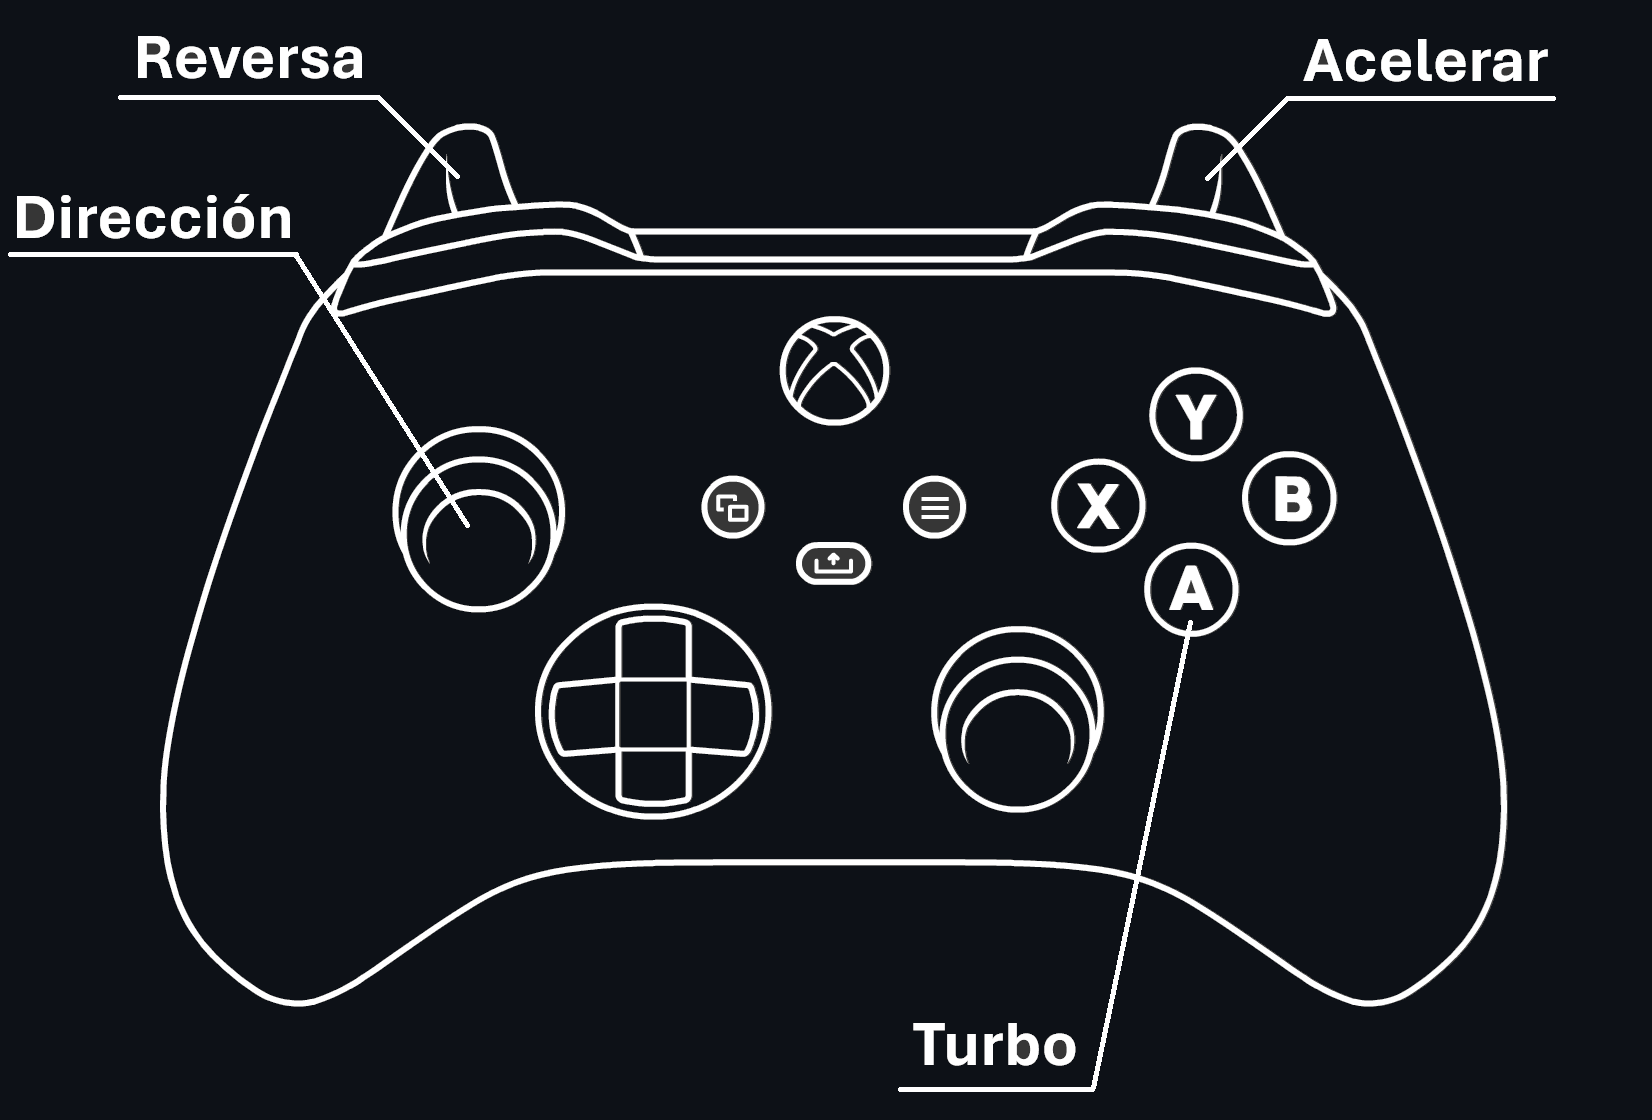
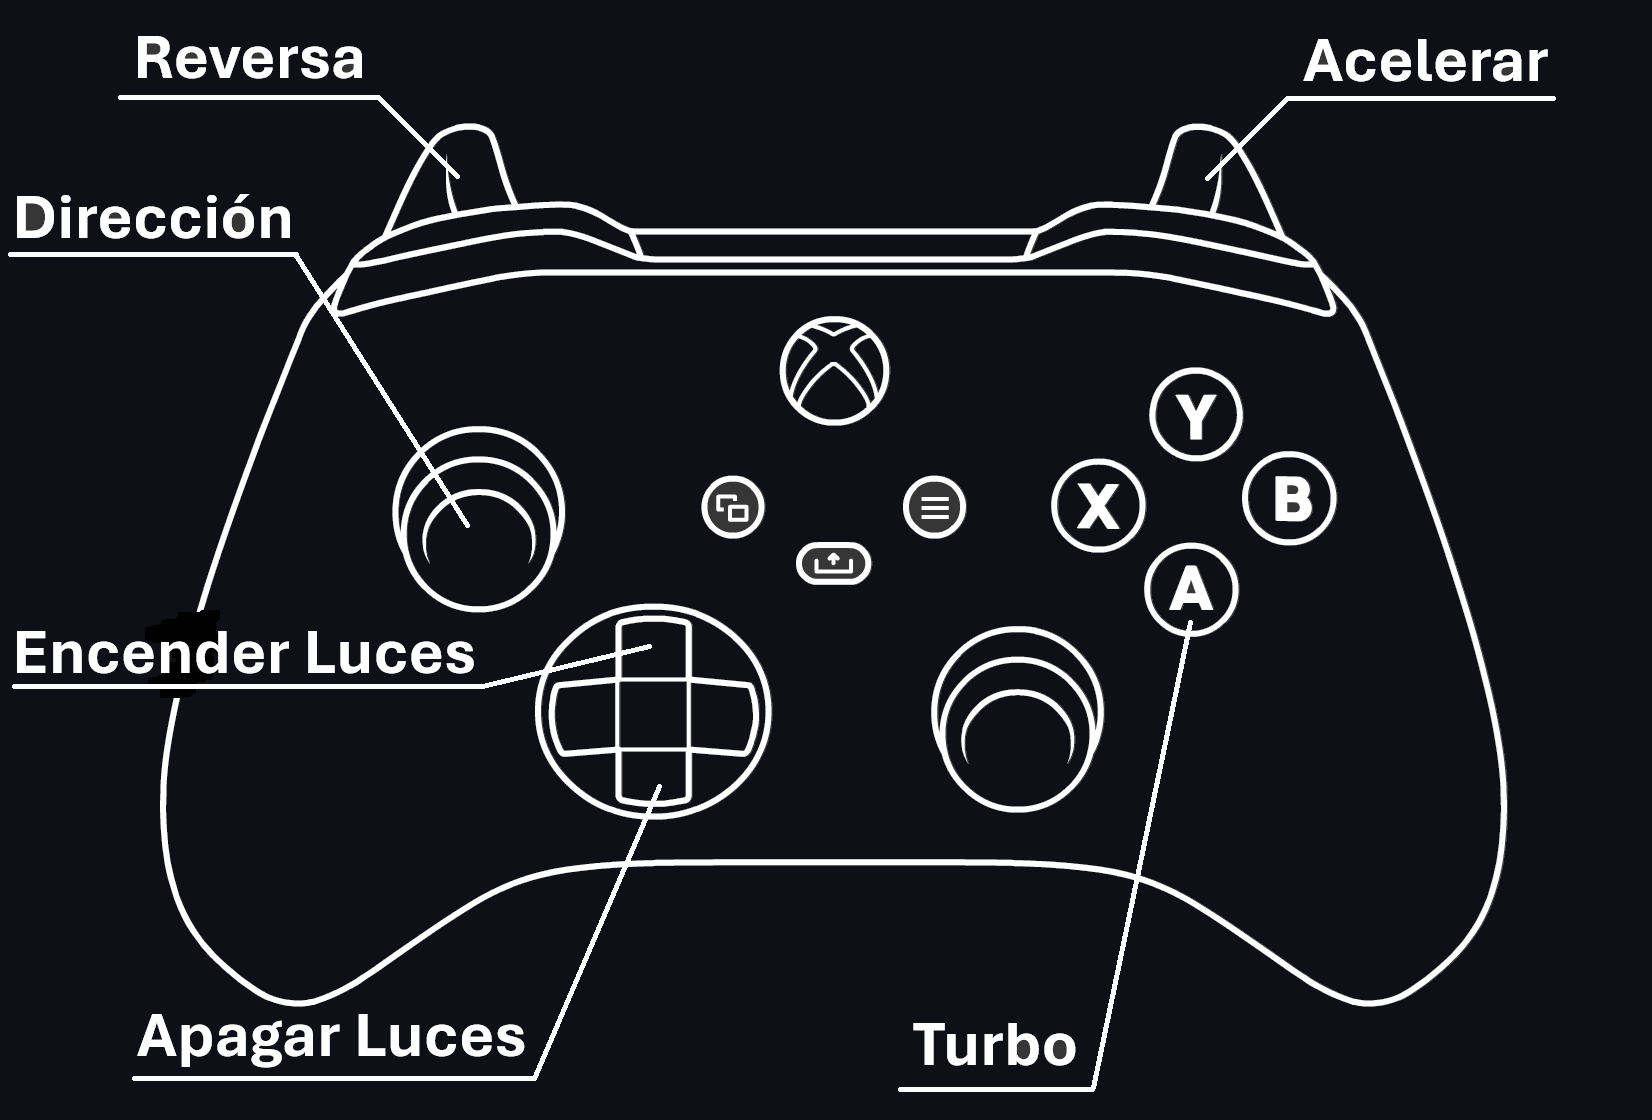
V1.1

diff --git a/shellMotorsport.py b/shellMotorsport.py
@@ -1,14 +1,13 @@
 import asyncio
-from bleak import BleakScanner, BleakClient
-from threading import Thread
-from configparser import ConfigParser
-from time import sleep
+from bleak          import BleakScanner, BleakClient
+from threading      import Thread
+from configparser   import ConfigParser
+from Crypto.Cipher  import AES
+from time           import sleep
 
 # Leemos el archivo de configuración
 config = ConfigParser()
 config.read('config.ini')
-
-UUID_CARACTERISTICA = "d44bc439-abfd-45a2-b575-925416129600"    # UUID de la caracteristica donde se envian los valores, igual para todos los autos
 
 ### Configuraciones ###
 CONEXION_ESPECIFICA = int(config['CONEXION']['conexion_especifica'])
@@ -17,23 +16,9 @@ INTENTOS_RECONEXION = int(config['CONEXION']['intentos_reconexion'])
 DEADZONE_GATILLO    = int(config['MOVIMIENTO']['deadzone_gatillo'])
 DEADZONE_ANALOGICO  = int(config['MOVIMIENTO']['deadzone_analogico'])
 
-# Códigos para el auto
-NEUTRAL         = config['CODIGOS']['NEUTRAL']
-ADELANTE        = config['CODIGOS']['adelante']
-ADELANTE_IZQ    = config['CODIGOS']['adelante_izq']
-ADELANTE_DER    = config['CODIGOS']['adelante_der']
-ATRAS           = config['CODIGOS']['atras']
-ATRAS_IZQ       = config['CODIGOS']['atras_izq']
-ATRAS_DER       = config['CODIGOS']['atras_der']
-IZQUIERDA       = config['CODIGOS']['izquierda']
-DERECHA         = config['CODIGOS']['derecha']
-
-TURBO_ADELANTE        = config['CODIGOS']['turbo_adelante']
-TURBO_ADELANTE_IZQ    = config['CODIGOS']['turbo_adelante_izq']
-TURBO_ADELANTE_DER    = config['CODIGOS']['turbo_adelante_der']
-TURBO_ATRAS           = config['CODIGOS']['turbo_atras']
-TURBO_ATRAS_IZQ       = config['CODIGOS']['turbo_atras_izq']
-TURBO_ATRAS_DER       = config['CODIGOS']['turbo_atras_der']
+# Parámetros necesarios para la transmisión
+KEY_AES             = config['PAQUETES']['key']
+UUID_CARACTERISTICA = config['PAQUETES']['uuid']
 
 salir = False
 
@@ -51,75 +36,75 @@ def elegirControlPredeterminado():
         gamepad = gamepads[0]   # Elegimos el primer control de la lista
     return gamepad
 
+lucesEncendidas = False
 
 # Recibe la variable controlValores y determina que paquete se envia
 def elegirPaquete(controlValores):
-    # Leemos el control y determinamos que valor escribir
+    global lucesEncendidas
+
+    # Creamos un paquete de 16 bytes con todos los bytes en cero
+    paquete = bytearray(16)
+
+    # Añadimos los bytes de control
+    paquete[1] = 0x43   # C
+    paquete[2] = 0x54   # T
+    paquete[3] = 0x4C   # L
 
     if(controlValores['BTN_SOUTH'] == 1):
-        turbo = True
+        paquete[9] = 0x64 # Velocidad Turbo
     else:
-        turbo = False
+        paquete[9] = 0x50 # Velocidad Normal
+
+    if(controlValores['ABS_HAT0Y'] == -1):
+        lucesEncendidas = True
+        #paquete[8] = 0x01 # Luces No Encendidas
+    elif(controlValores['ABS_HAT0Y'] == 1):
+        lucesEncendidas = False
+
+    if lucesEncendidas:
+        paquete[8] = 0x00   # Luces Encendidas
+    else:
+        paquete[8] = 0x01   # Luces No Encendidas
 
     # Gatillo Derecho - Avanzando
     if(controlValores['ABS_RZ'] > DEADZONE_GATILLO):
-        # Doblando Derecha
-        if(controlValores['ABS_X'] > DEADZONE_ANALOGICO):
-            if turbo:
-                return bytearray.fromhex(TURBO_ADELANTE_DER)
-            else:
-                return bytearray.fromhex(ADELANTE_DER)
-        
-        # Doblando Izquierda
-        elif(controlValores['ABS_X'] < -DEADZONE_ANALOGICO):
-            if turbo:
-                return bytearray.fromhex(TURBO_ADELANTE_IZQ)
-            else:
-                return bytearray.fromhex(ADELANTE_IZQ)
-        
-        # Sin Doblar
-        else:
-            if turbo:
-                return bytearray.fromhex(TURBO_ADELANTE)
-            else:
-                return bytearray.fromhex(ADELANTE)
+        paquete[4] = 0x01
     
     # Gatillo Izquierdo - Retrocediendo
     elif(controlValores['ABS_Z'] > DEADZONE_GATILLO):
-        # Doblando Derecha
-        if(controlValores['ABS_X'] > DEADZONE_ANALOGICO):
-            if turbo:
-                return bytearray.fromhex(TURBO_ATRAS_DER)
-            else:
-                return bytearray.fromhex(ATRAS_DER)
-        
-        # Doblando Izquierda
-        elif(controlValores['ABS_X'] < -DEADZONE_ANALOGICO):
-            if turbo:
-                return bytearray.fromhex(TURBO_ATRAS_IZQ)
-            else:
-                return bytearray.fromhex(ATRAS_IZQ)
-        
-        # Sin Doblar
-        else:
-            if turbo:
-                return bytearray.fromhex(TURBO_ATRAS)
-            else:
-                return bytearray.fromhex(ATRAS)
-            
-    # Ningún Gatillo Presionado - Sin Moverse
-    else:
-        # Doblando Derecha
-        if(controlValores['ABS_X'] > DEADZONE_ANALOGICO):
-            return bytearray.fromhex(DERECHA)
-        
-        # Doblando Izquierda
-        elif(controlValores['ABS_X'] < -DEADZONE_ANALOGICO):
-            return bytearray.fromhex(IZQUIERDA)
-        
-        # Sin Doblar
-        else:
-            return bytearray.fromhex(NEUTRAL)
+        paquete[5] = 0x01
+    
+    # Doblando Izquierda
+    if(controlValores['ABS_X'] < -DEADZONE_ANALOGICO):
+        paquete[6] = 0x01
+    
+    # Doblando Derecha
+    elif(controlValores['ABS_X'] > DEADZONE_ANALOGICO):
+        paquete[7] = 0x01
+    
+    return paquete
+
+# Encripta los paquetes con AES de 128 bits en modo ECB
+def encriptarPaquete(paquete, key):
+    key = bytes.fromhex(key)
+
+    cipher = AES.new(key, AES.MODE_ECB)
+    
+    codigoEncriptado = bytearray()
+
+    for byte in cipher.encrypt(paquete):
+        codigoEncriptado.append(byte)
+
+    return codigoEncriptado
+
+# Recibe un paquete y verifica si es un paquete que necesita ser reenviado constantemente para generar efecto
+def necesitaReenvio(paquete):
+    # Caso especial primer paquete
+    if paquete == None:
+        return True
+    
+    # Verificamos si estamos indicando avanzar o girar
+    return (paquete[4] == 0x01) or (paquete[5] == 0x01) or (paquete[6] == 0x01) or (paquete[7] == 0x01)
 
 # Actualiza la variable controlValores con los datos del control
 def actualizarControl(control):
@@ -135,11 +120,12 @@ def actualizarControl(control):
         if(controlValores['BTN_SELECT'] == 1 and controlValores['BTN_START'] == 1):
             salir = True
 
-
+# Lee la variable actualizada por el otro hilo y envia los comandos al auto
 async def conexionAuto(hiloControl):
     global salir
 
     print("Buscando dispositivo...")
+
     intentos = 0
     conexionActiva = False
 
@@ -181,19 +167,27 @@ async def conexionAuto(hiloControl):
                 ultimoPaquete = None
                 while conexionActiva and not salir:
                     # Leemos el control y decidimos que paquete se envia
-                    valorEnviar = elegirPaquete(controlValores)
-                    if ultimoPaquete != NEUTRAL:
+                    paqueteDesencriptado = elegirPaquete(controlValores)
+
+                    # Encriptamos el paquete
+                    paqueteEncriptado = encriptarPaquete(paqueteDesencriptado, KEY_AES)
+                    
+                    # Solo enviamos el paquete si va a generar un cambio en el auto
+                    if (not necesitaReenvio(ultimoPaquete)) and (paqueteDesencriptado == ultimoPaquete):
+                        pass
+                    else:
                         try:
                             # Escribimos el valor en el auto
-                            await client.write_gatt_char(UUID_CARACTERISTICA, valorEnviar)
+                            await client.write_gatt_char(UUID_CARACTERISTICA, paqueteEncriptado)
 
                             # Borramos la linea actual
                             print('\033[0K', end="")
-                            print(f"Escrito {valorEnviar}", end="\r")
-                            ultimoPaquete = valorEnviar
+                            print(f"Escrito {paqueteDesencriptado}", end="\r")
+                            ultimoPaquete = paqueteDesencriptado
                         except:
                             print("\nError en el envio del paquete, intentando reconectar")
                             conexionActiva = False
+                        
         except:
             print("Error en la reconexión, intentando " + str(INTENTOS_RECONEXION - intentos) + " veces más")
             intentos += 1

diff --git a/README.md b/README.md
@@ -17,9 +17,14 @@ Aplicación escrita en Python para controlar los autos de la colección “Shell
 ## Controles
 ![controles](./img/controles.png)
 **Nota:** El botón de turbo debe mantenerse apretado para que esté activo, no funciona como el de la aplicación original.
+**Nota 2:** Para salir de la aplicación se puede presionar **START + SELECT**.
 
 ## Configuraciones
 #### Conexión a un auto específico
 Se puede especificar al programa que se conecte a un auto específico, por si se quieren conectar dos autos al mismo tiempo y se quiere garantizar siempre controlar al mismo. Los pasos son:
 - Obtener el nombre Bluetooth del auto. Este se puede obtener con cualquier celular o PC con Bluetooth, se enciende el auto y se escanea como con cualquier dispositivo, el nombre tiene el formato: **“QCAR-XXXXXX”**, donde las X son números y letras aleatorios.
 - Con el nombre, se abre el archivo [config.ini](./config.ini) y se cambia el valor de la configuración **"conexion_especifica"** por un **1** y luego se reemplaza la configuración de **"nombre"** por nuestro nombre obtenido, luego guardar el archivo. Con esto ya queda configurado en el programa, cada vez que se abra el programa buscará siempre el mismo auto.
+
+## Credit where credit is due
+Gracias a este usuario que de alguna manera mística tiene la key que usa el AES para encriptar los comandos. Tener cuidado de todas formas, no toda la información es del todo precisa.
+https://gist.github.com/scrool/e79d6a4cb50c26499746f4fe473b3768

diff --git a/CHANGELOG.md b/CHANGELOG.md
@@ -1,4 +1,9 @@
 # Control Shell Motorsport Changelog
 
+## V1.1 - 02/12/2024
+- ##### Implementado soporte completo para todas las funciones del auto (Turbo y Luces), ver README para ver los botones asignados.
+- ##### Ahora los paquetes se encriptan en el momento, no se depende de obtener las cadenas encriptadas y reenviarlas.
+- ##### Los paquetes que no necesitan ser reenviados cada cierto tiempo para generar un efecto se filtran y no se reenvian (esta condición existia antes conceptualmente pero no estaba bien implementada, jamás se cumplía).
+
 ## V1.0 - 19/11/2024
 - ##### Versión inicial.
